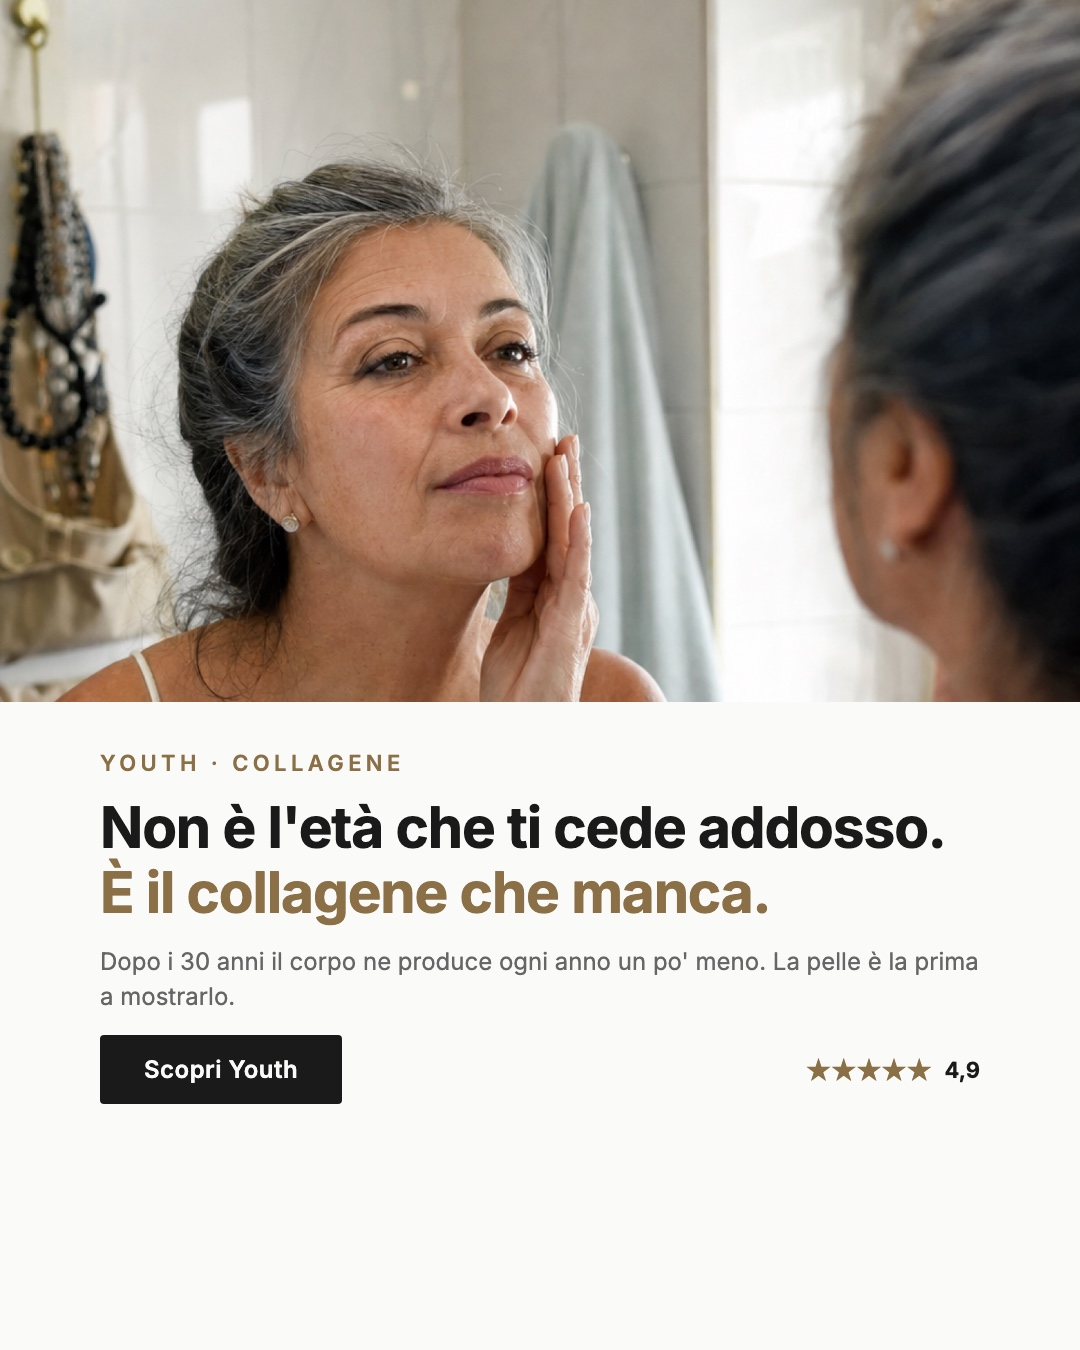
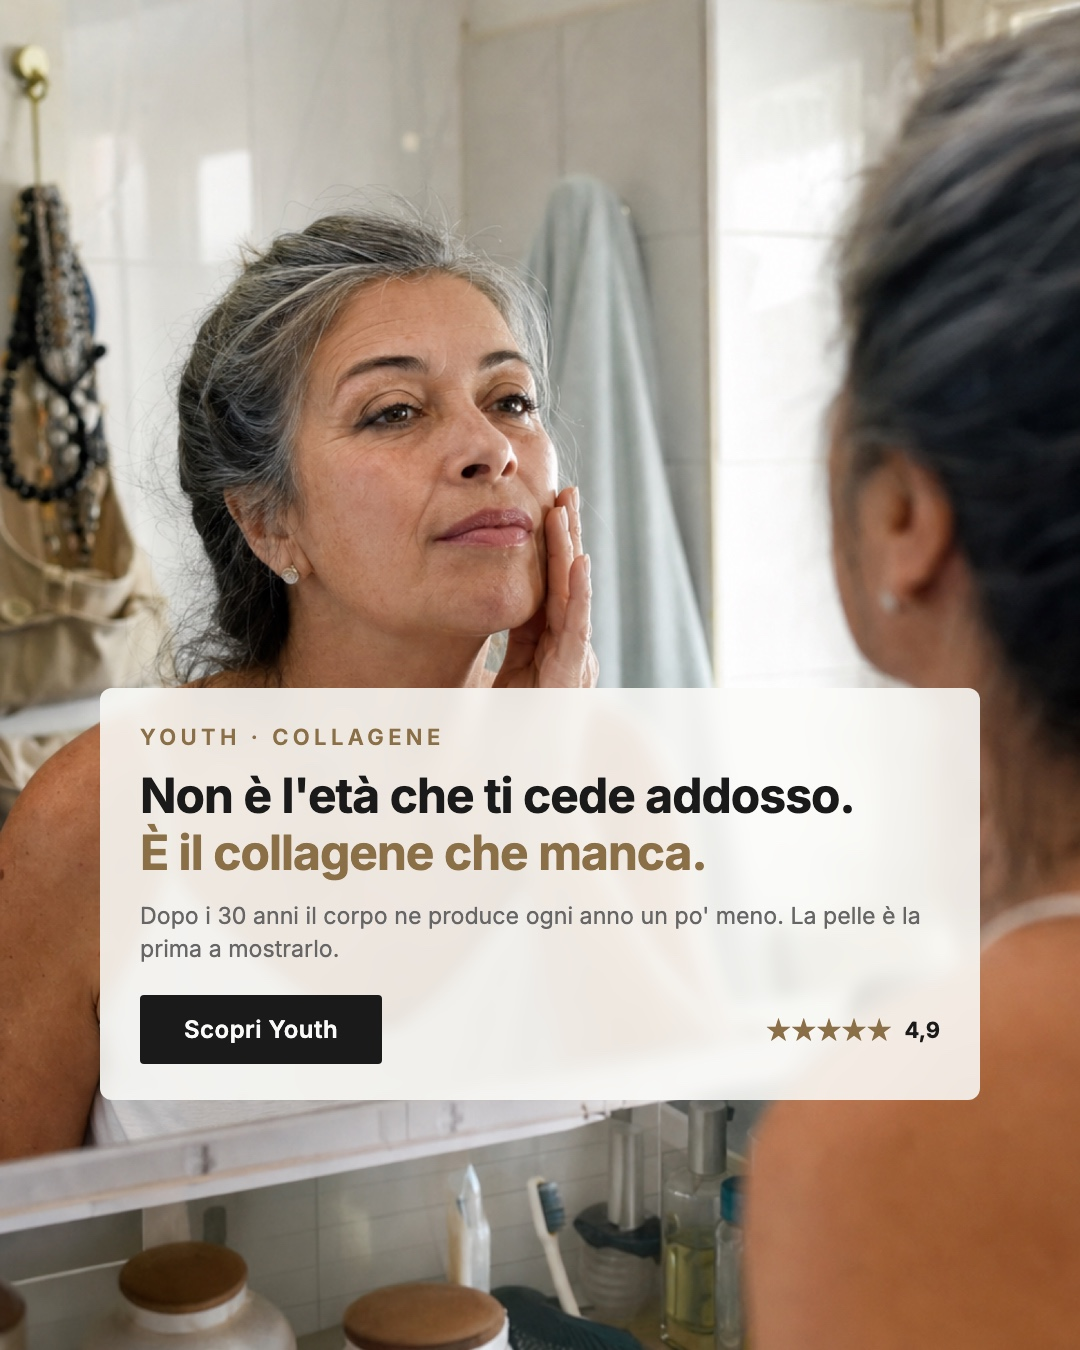
Batch #1004: revisione image-forward (190/192 full-bleed, 194/195 quadrate 1080x1080)

diff --git a/ads/batch-1004.html b/ads/batch-1004.html
@@ -202,7 +202,7 @@ Comprati separati costano 85-120 euro al mese. Youth costa 59 euro, con 4,9 su o
   </div>
 
   <h2>4 · Le creatività</h2>
-  <p class="sec-sub">10 statiche pronte a 1080x1350. Clic sull'immagine per la piena risoluzione, Scarica per il download. Su Meta: 3 testi + 2 titoli + descrizione + CTA Acquista.</p>
+  <p class="sec-sub">8 in formato 4:5 (1080x1350) e 2 quadrate (#194 e #195, 1080x1080). Safe zone Meta rispettate. Clic sull'immagine per la piena risoluzione, Scarica per il download. Su Meta: 3 testi + 2 titoli + descrizione + CTA Acquista.</p>
   <div class="kits">
     <div class="kit">
       <div class="thumb"><a href="img/1004/190.jpg" target="_blank"><img src="img/1004/190.jpg" alt="#190" loading="lazy"></a><a class="dl" href="img/1004/190.jpg" download="190_youth_eta_1080x1350.jpg">&#11015; Scarica immagine</a></div>
@@ -241,18 +241,18 @@ Comprati separati costano 85-120 euro al mese. Youth costa 59 euro, con 4,9 su o
       </div>
     </div>
     <div class="kit">
-      <div class="thumb"><a href="img/1004/194.jpg" target="_blank"><img src="img/1004/194.jpg" alt="#194" loading="lazy"></a><a class="dl" href="img/1004/194.jpg" download="194_youth_dosaggio_1080x1350.jpg">&#11015; Scarica immagine</a></div>
+      <div class="thumb"><a href="img/1004/194.jpg" target="_blank"><img src="img/1004/194.jpg" alt="#194" loading="lazy"></a><a class="dl" href="img/1004/194.jpg" download="194_youth_dosaggio_1080x1080.jpg">&#11015; Scarica immagine</a></div>
       <div class="fields">
-        <div class="fhead"><span class="num">#194</span><span class="chip">Solution</span><span class="chip">Generico 45+</span></div>
+        <div class="fhead"><span class="num">#194</span><span class="chip">Solution</span><span class="chip">1:1</span><span class="chip">Generico 45+</span></div>
         <div class="meta-row"><span class="flabel">Testo principale (tutti e 3)</span><button class="cbtn sm" data-src="tA">Copia A</button><button class="cbtn sm" data-src="tB">Copia B</button><button class="cbtn sm" data-src="tC">Copia C</button></div>
         <div><div class="meta-row" style="margin-top:0;margin-bottom:6px"><span class="flabel">Titoli</span></div><div class="titoli"><span class="tt">Il collagene da solo non basta <button class="cbtn sm" data-copy="Il collagene da solo non basta">Copia</button></span><span class="tt">Separati 85-120 euro. Youth 59 euro <button class="cbtn sm" data-copy="Separati 85-120 euro. Youth 59 euro">Copia</button></span></div></div>
         <div class="meta-row"><span class="flabel">Descrizione</span><span class="val">6.000 mg di collagene e 12 nutrienti</span><button class="cbtn sm" data-copy="6.000 mg di collagene e 12 nutrienti">Copia</button><span class="sep"></span><span class="flabel">CTA</span><span class="val"><b>Acquista</b></span><button class="cbtn sm" data-copy="https://paleocomplex.com/prodotto/youth/">Copia link</button></div>
       </div>
     </div>
     <div class="kit">
-      <div class="thumb"><a href="img/1004/195.jpg" target="_blank"><img src="img/1004/195.jpg" alt="#195" loading="lazy"></a><a class="dl" href="img/1004/195.jpg" download="195_youth_sinergie_1080x1350.jpg">&#11015; Scarica immagine</a></div>
+      <div class="thumb"><a href="img/1004/195.jpg" target="_blank"><img src="img/1004/195.jpg" alt="#195" loading="lazy"></a><a class="dl" href="img/1004/195.jpg" download="195_youth_sinergie_1080x1080.jpg">&#11015; Scarica immagine</a></div>
       <div class="fields">
-        <div class="fhead"><span class="num">#195</span><span class="chip">Solution</span><span class="chip">Generico 45+</span></div>
+        <div class="fhead"><span class="num">#195</span><span class="chip">Solution</span><span class="chip">1:1</span><span class="chip">Generico 45+</span></div>
         <div class="meta-row"><span class="flabel">Testo principale (tutti e 3)</span><button class="cbtn sm" data-src="tA">Copia A</button><button class="cbtn sm" data-src="tB">Copia B</button><button class="cbtn sm" data-src="tC">Copia C</button></div>
         <div><div class="meta-row" style="margin-top:0;margin-bottom:6px"><span class="flabel">Titoli</span></div><div class="titoli"><span class="tt">Il collagene da solo non basta <button class="cbtn sm" data-copy="Il collagene da solo non basta">Copia</button></span><span class="tt">Separati 85-120 euro. Youth 59 euro <button class="cbtn sm" data-copy="Separati 85-120 euro. Youth 59 euro">Copia</button></span></div></div>
         <div class="meta-row"><span class="flabel">Descrizione</span><span class="val">6.000 mg di collagene e 12 nutrienti</span><button class="cbtn sm" data-copy="6.000 mg di collagene e 12 nutrienti">Copia</button><span class="sep"></span><span class="flabel">CTA</span><span class="val"><b>Acquista</b></span><button class="cbtn sm" data-copy="https://paleocomplex.com/prodotto/youth/">Copia link</button></div>
